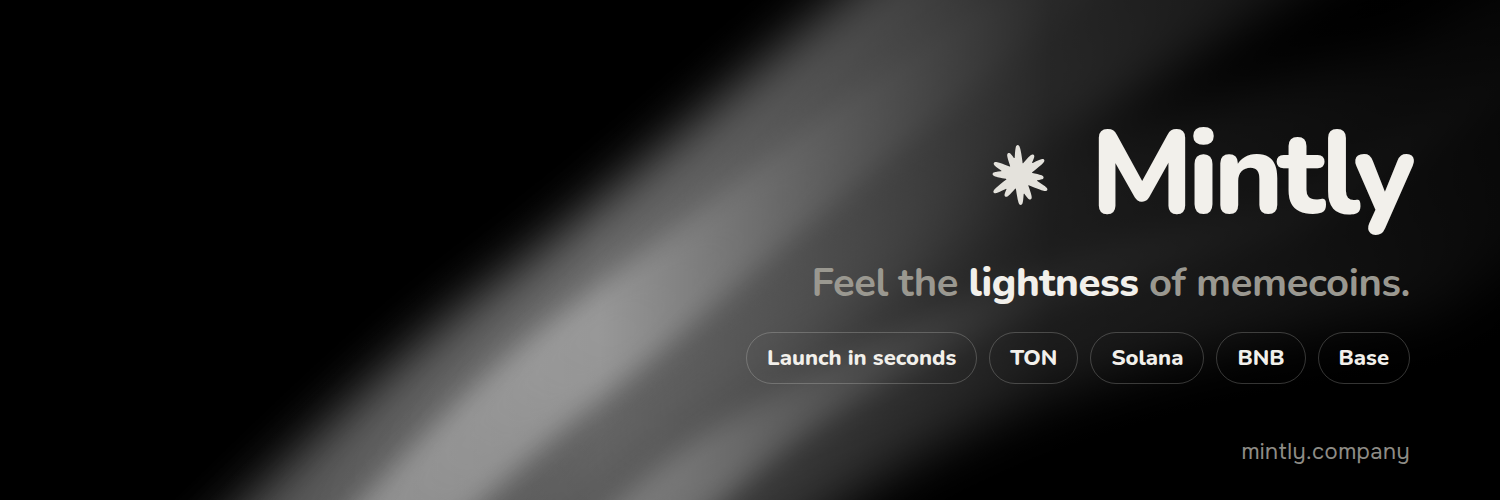
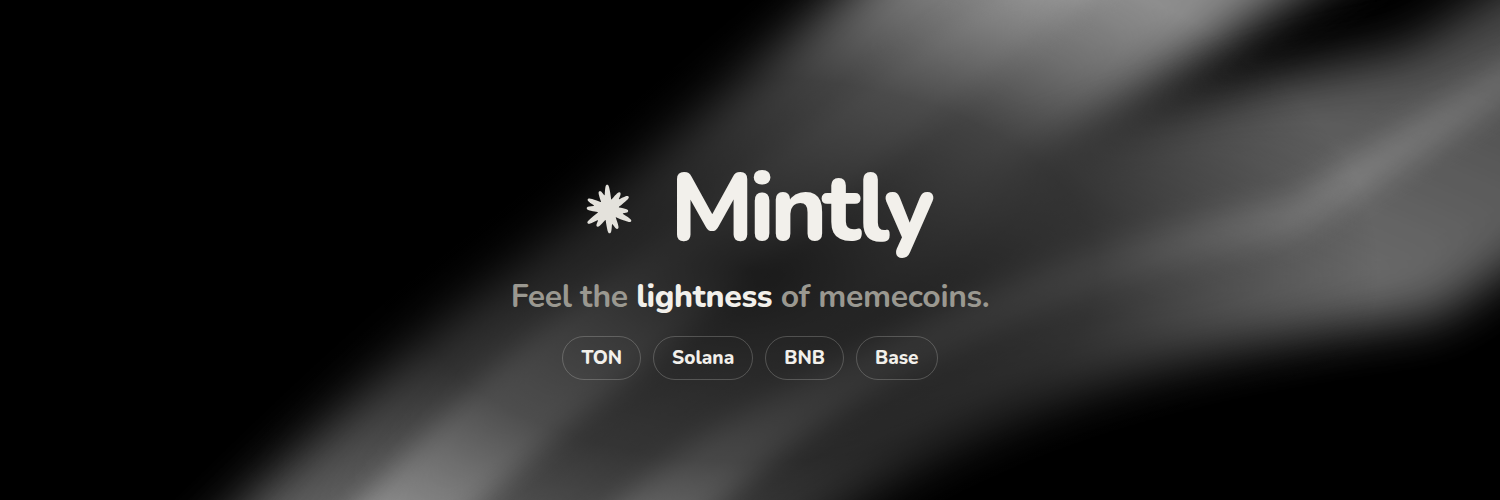
Баннер X: всё по центру, в зоне, которую телефон не обрезает
Claude-Session: https://claude.ai/code/session_012dgtbmCBimMGEXv6Efga8R

diff --git a/demo/x-banner/banner.html b/demo/x-banner/banner.html
@@ -6,15 +6,15 @@
 html,body { margin:0; background:#000; }
 .b { position:relative; width:1500px; height:500px; overflow:hidden; background:#000; color:#F2F0EB; font-family:N, sans-serif; }
 .silk { position:absolute; inset:0; width:1500px; height:500px; opacity:.9; }
-.fade { position:absolute; inset:0; background: linear-gradient(90deg, rgba(0,0,0,.0) 0%, rgba(0,0,0,.15) 40%, rgba(0,0,0,.75) 70%, rgba(0,0,0,.9) 100%); }
-.right { position:absolute; right:90px; top:0; bottom:0; display:flex; flex-direction:column; justify-content:center; align-items:flex-end; gap:22px; text-align:right; }
+.fade { position:absolute; inset:0; background: radial-gradient(42% 70% at 50% 54%, rgba(0,0,0,.82) 0%, rgba(0,0,0,.55) 55%, rgba(0,0,0,0) 100%); }
+.right { position:absolute; left:0; right:0; top:40px; bottom:0; display:flex; flex-direction:column; justify-content:center; align-items:center; gap:18px; text-align:center; }
 .logo { display:flex; align-items:center; gap:22px; }
-.logo svg { width:96px; height:96px; }
-.word { font-size:118px; font-weight:800; letter-spacing:-0.05em; line-height:1; }
-.line { font-size:40px; font-weight:700; color:#9A9890; letter-spacing:-0.01em; }
+.logo svg { width:78px; height:78px; }
+.word { font-size:96px; font-weight:800; letter-spacing:-0.05em; line-height:1; }
+.line { font-size:32px; font-weight:700; color:#9A9890; letter-spacing:-0.01em; }
 .line b { color:#F2F0EB; }
 .chips { display:flex; gap:12px; }
-.chip { font-family:N; font-weight:800; font-size:22px; padding:10px 20px; border-radius:999px; border:1.5px solid rgba(242,240,235,.22); color:#F2F0EB; }
+.chip { font-family:N; font-weight:800; font-size:19px; padding:8px 18px; border-radius:999px; border:1.5px solid rgba(242,240,235,.22); color:#F2F0EB; }
 .site { position:absolute; right:90px; bottom:34px; font-family:O, sans-serif; font-size:22px; color:#8E8C86; letter-spacing:.02em; }
 </style></head><body>
 <div class="b">
@@ -32,7 +32,6 @@ html,body { margin:0; background:#000; }
   <div class="right">
     <div class="logo"><svg viewBox="-8.0 -8.0 216.0 216.0"><path d="M40.12 101.31 L41.10 101.94 L42.79 102.74 L44.01 103.20 L46.57 104.02 L49.71 104.86 L55.52 106.18 L60.15 107.11 L68.37 108.61 L68.68 108.75 L68.95 108.99 L69.11 109.28 L69.19 109.65 L69.08 110.15 L68.78 110.53 L67.71 111.14 L62.39 115.31 L55.52 120.85 L51.64 124.09 L46.93 128.25 L43.48 131.62 L41.95 133.37 L41.32 134.22 L40.71 135.23 L40.30 136.24 L40.13 137.22 L40.17 137.98 L40.47 138.99 L40.99 139.78 L41.64 140.36 L42.11 140.65 L42.66 140.86 L43.57 141.06 L44.51 141.08 L45.43 140.98 L46.53 140.75 L47.79 140.39 L50.36 139.49 L53.46 138.22 L59.15 135.61 L67.89 131.26 L68.27 131.16 L68.69 131.21 L69.03 131.40 L69.30 131.72 L69.44 132.13 L69.42 132.52 L67.37 137.23 L66.33 139.94 L65.67 142.04 L65.43 143.02 L65.26 144.09 L65.20 145.10 L65.32 146.14 L65.64 147.05 L66.03 147.70 L66.65 148.34 L67.32 148.77 L68.19 149.08 L68.78 149.16 L69.74 149.11 L70.96 148.74 L72.38 147.97 L73.40 147.26 L75.17 145.79 L77.22 143.88 L80.83 140.17 L85.13 135.43 L89.02 130.95 L89.27 130.76 L89.59 130.65 L89.91 130.64 L90.26 130.74 L90.64 131.05 L90.86 131.52 L92.25 140.80 L93.57 148.62 L94.82 154.97 L96.02 159.89 L96.77 162.31 L97.16 163.34 L97.59 164.27 L98.05 165.09 L98.61 165.86 L99.02 166.27 L99.76 166.82 L100.46 167.11 L101.34 167.28 L102.11 167.25 L103.01 166.97 L103.66 166.61 L104.45 165.87 L104.97 165.10 L105.45 164.11 L105.80 163.09 L106.41 160.61 L107.11 156.10 L107.72 150.18 L108.22 143.09 L108.40 142.64 L108.75 142.31 L109.09 142.18 L109.46 142.17 L109.82 142.28 L110.12 142.51 L113.39 147.16 L116.18 150.74 L117.08 151.78 L118.51 153.24 L119.34 153.96 L120.15 154.51 L121.15 154.97 L122.07 155.17 L122.72 155.19 L123.59 155.02 L124.39 154.66 L125.08 154.10 L125.49 153.61 L125.94 152.78 L126.25 151.55 L126.32 150.40 L126.16 148.44 L125.74 146.07 L124.63 141.69 L123.55 138.05 L121.46 131.70 L118.80 124.18 L118.77 123.85 L118.85 123.49 L119.04 123.17 L119.33 122.94 L119.79 122.81 L120.27 122.88 L121.85 124.05 L122.40 124.34 L131.83 128.13 L139.80 131.18 L144.36 132.82 L148.23 134.11 L152.95 135.46 L154.36 135.78 L156.43 136.10 L157.61 136.13 L158.72 135.99 L159.79 135.59 L160.42 135.15 L161.14 134.33 L161.53 133.44 L161.65 132.73 L161.66 132.15 L161.46 131.23 L161.26 130.69 L160.80 129.88 L160.23 129.13 L159.47 128.29 L158.50 127.36 L156.37 125.56 L152.09 122.35 L146.32 118.38 L138.85 113.52 L138.58 113.25 L138.43 112.95 L138.38 112.53 L138.50 112.12 L138.77 111.78 L139.15 111.57 L143.25 111.06 L147.06 110.39 L149.26 109.76 L150.19 109.38 L151.13 108.85 L151.78 108.34 L152.39 107.61 L152.73 106.97 L152.99 106.07 L153.01 105.32 L152.85 104.43 L152.55 103.75 L152.02 102.98 L151.20 102.21 L149.85 101.37 L148.74 100.84 L146.63 100.04 L144.01 99.22 L139.11 97.95 L133.00 96.62 L127.96 95.62 L127.66 95.49 L127.42 95.27 L127.25 94.99 L127.17 94.68 L127.24 94.15 L127.53 93.74 L128.13 93.33 L133.28 89.27 L141.90 82.23 L145.35 79.26 L148.22 76.68 L151.54 73.40 L152.47 72.36 L153.69 70.79 L154.28 69.79 L154.64 68.92 L154.82 67.97 L154.82 67.23 L154.56 66.23 L154.23 65.59 L153.85 65.13 L153.17 64.57 L152.56 64.26 L151.79 64.03 L151.24 63.96 L150.29 63.96 L149.36 64.08 L148.33 64.30 L146.06 64.98 L141.79 66.65 L136.19 69.19 L128.86 72.79 L128.40 72.88 L127.97 72.79 L127.63 72.56 L127.42 72.25 L127.32 71.88 L127.35 71.51 L129.28 67.24 L130.96 63.04 L131.66 60.89 L131.90 59.90 L132.09 58.83 L132.15 57.84 L132.04 56.76 L131.75 55.88 L131.44 55.32 L130.84 54.63 L130.18 54.16 L129.31 53.82 L128.57 53.71 L127.62 53.77 L126.37 54.16 L124.94 54.95 L123.92 55.67 L122.12 57.18 L118.93 60.25 L116.36 62.94 L111.99 67.81 L107.42 73.11 L107.15 73.31 L106.80 73.42 L106.43 73.41 L106.12 73.29 L105.76 72.98 L105.56 72.50 L105.69 71.19 L105.67 70.58 L103.79 57.76 L102.90 52.41 L102.05 47.75 L101.23 43.78 L100.44 40.55 L100.02 39.05 L99.27 36.83 L98.86 35.86 L98.32 34.86 L97.74 34.09 L97.32 33.69 L96.57 33.15 L95.85 32.87 L94.98 32.72 L94.23 32.77 L93.36 33.06 L92.70 33.45 L91.92 34.23 L91.41 35.02 L90.95 36.05 L90.59 37.12 L90.01 39.68 L89.33 44.40 L88.74 50.74 L88.13 60.80 L88.01 61.21 L87.74 61.54 L87.41 61.73 L86.99 61.80 L86.59 61.70 L86.27 61.48 L83.01 57.05 L81.17 54.77 L79.67 53.12 L78.94 52.42 L78.10 51.72 L77.26 51.17 L76.29 50.75 L75.34 50.56 L74.58 50.57 L73.71 50.78 L72.99 51.16 L72.30 51.75 L71.92 52.24 L71.50 53.07 L71.21 54.34 L71.17 55.97 L71.29 57.21 L71.68 59.50 L72.32 62.25 L73.75 67.29 L75.75 73.44 L77.85 79.50 L77.88 79.82 L77.82 80.13 L77.67 80.43 L77.44 80.65 L76.95 80.86 L76.44 80.81 L65.90 76.73 L59.05 74.26 L53.43 72.43 L49.13 71.29 L46.66 70.86 L45.59 70.78 L44.48 70.82 L43.60 70.99 L42.70 71.37 L42.17 71.73 L41.55 72.38 L41.21 72.91 L40.95 73.64 L40.83 74.39 L40.90 75.20 L41.10 75.97 L41.57 76.93 L42.09 77.67 L42.78 78.49 L44.58 80.23 L48.06 83.06 L52.78 86.49 L57.74 89.88 L58.05 90.26 L58.15 90.79 L58.07 91.14 L57.91 91.43 L57.63 91.67 L57.29 91.81 L50.59 92.37 L45.96 92.98 L44.59 93.24 L42.57 93.74 L41.52 94.10 L40.61 94.53 L39.70 95.16 L38.96 96.01 L38.58 96.76 L38.34 97.78 L38.43 98.83 L38.69 99.62 L39.32 100.57Z" fill="#E4E2DC"/></svg><span class="word">Mintly</span></div>
     <div class="line">Feel the <b>lightness</b> of memecoins.</div>
-    <div class="chips"><span class="chip">Launch in seconds</span><span class="chip">TON</span><span class="chip">Solana</span><span class="chip">BNB</span><span class="chip">Base</span></div>
+    <div class="chips"><span class="chip">TON</span><span class="chip">Solana</span><span class="chip">BNB</span><span class="chip">Base</span></div>
   </div>
-  <div class="site">mintly.company</div>
 </div></body></html>
